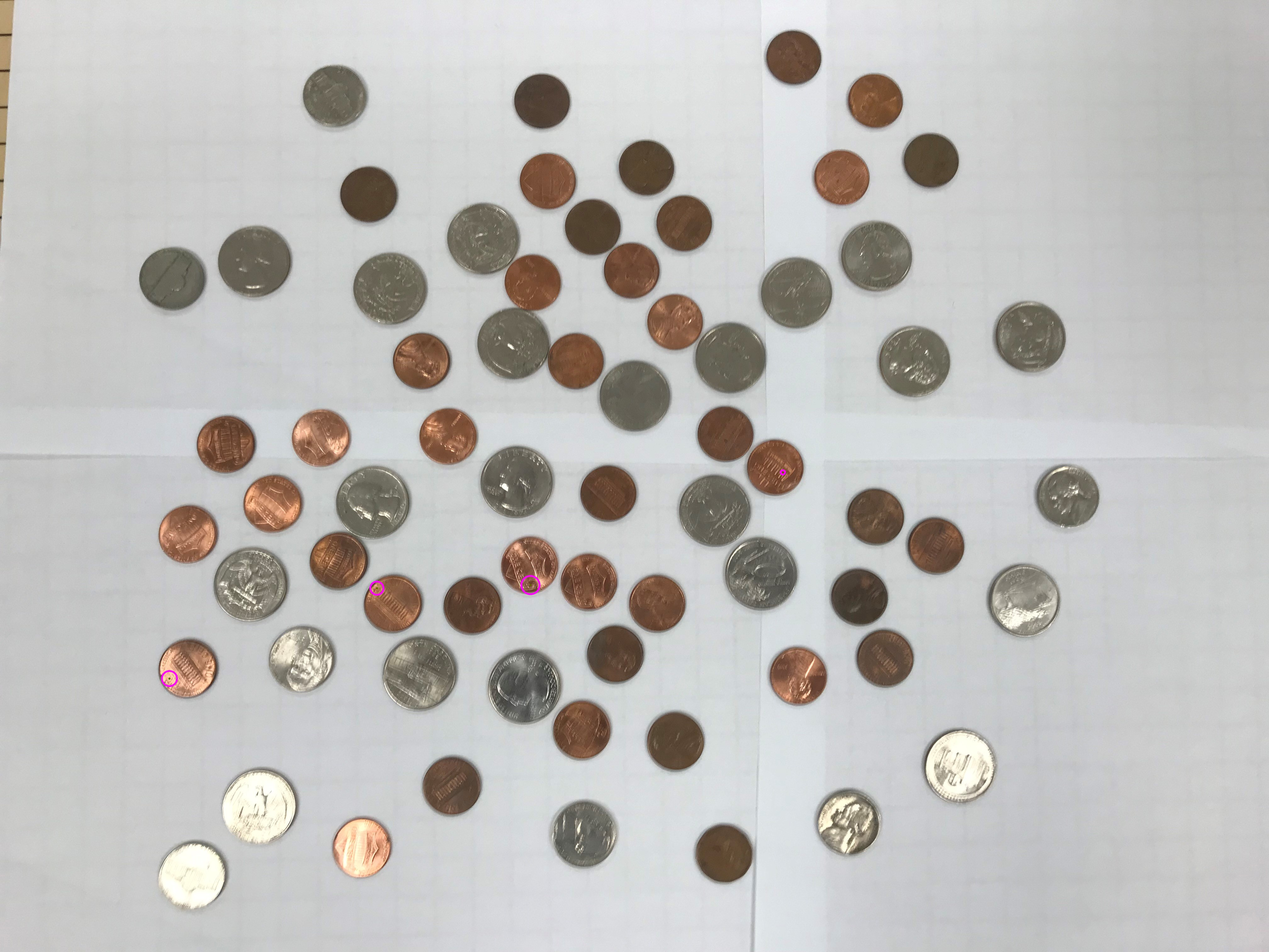
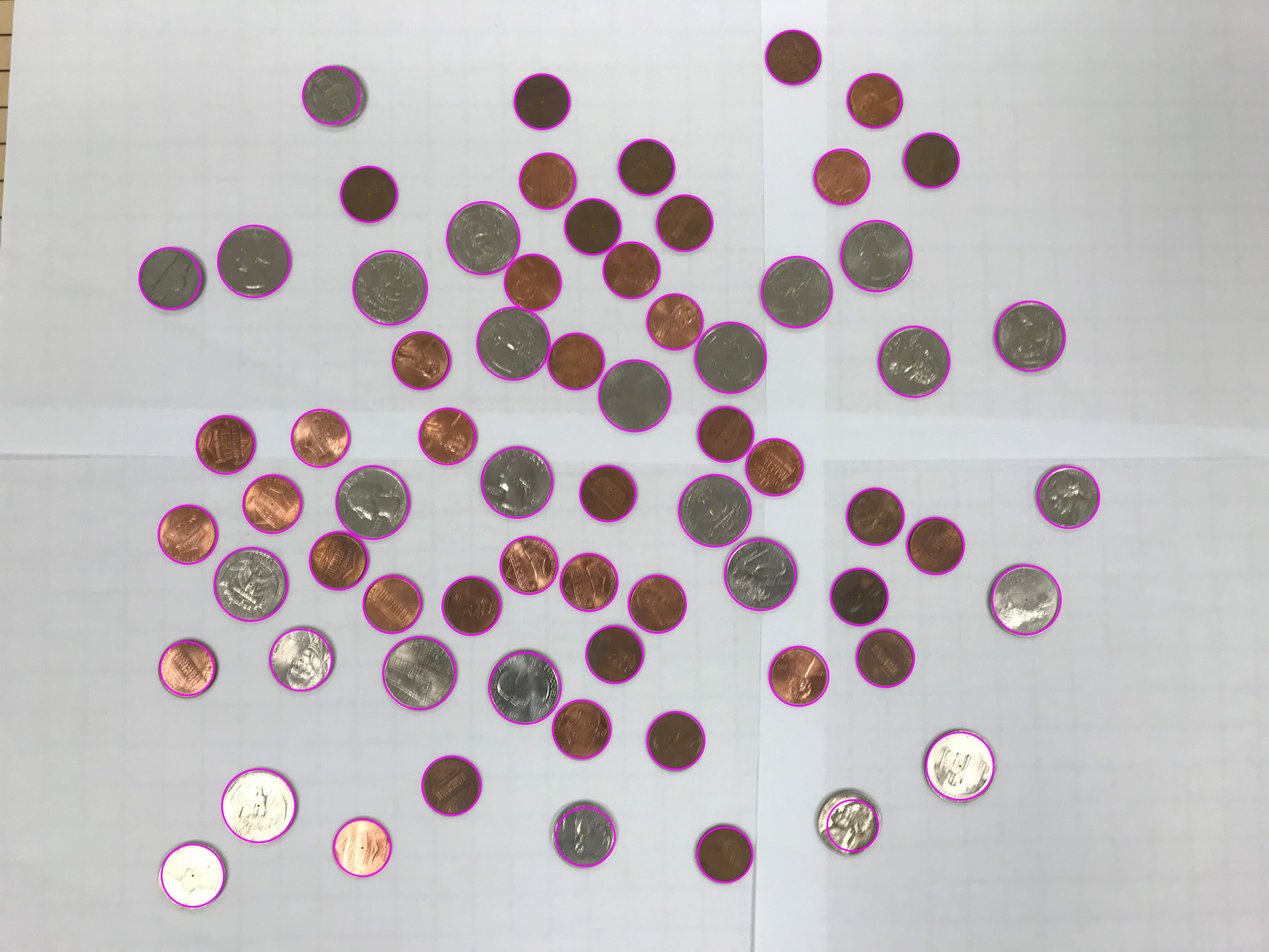
working thresholds for easy image

diff --git a/OpenCV/l071.cpp b/OpenCV/l071.cpp
@@ -6,7 +6,7 @@
 int main(int argc, char** argv) {
 	if (argc != 2) {
 		std::cout << "usage: l071 <path>\n";
-		std::cout << "path: the path of the image to run Hough Circles on\n";
+		std::cout << "path: the source image for detecting coins\n";
 		return -1;
 	}
 
@@ -21,27 +21,45 @@ int main(int argc, char** argv) {
 
 	cv::Mat gray;
 	cv::cvtColor(image, gray, cv::COLOR_BGR2GRAY);
-	
-	cv::medianBlur(gray, gray, 5);
 
-	const int MIN_RADIUS = 50;
-	const int MAX_RADIUS = 300;
+	const int GAUSSIAN_KERNEL_SIZE = 5;
+	
+	cv::GaussianBlur(
+		gray, // input
+		gray, // output
+		cv::Size(GAUSSIAN_KERNEL_SIZE, GAUSSIAN_KERNEL_SIZE), // kernel size
+		3, // sigma X
+		3, // sigma Y
+		cv::BORDER_DEFAULT // border style
+	);
+
+	const int MIN_RADIUS = 75;
+	const int MAX_RADIUS = 150;
 	const int MIN_DISTANCE = MIN_RADIUS;
 
-	const int EDGE_DETECTION_THRESHOLD = 100;
-	const int ACCUMULATOR_THRESHOLD = 30;
+	const int MAX_POSSIBLE_EDGE_GRADIENT = 1016;
 
-	const int DP = 1 / 1;
+	const int EDGE_DETECTION_THRESHOLD = MAX_POSSIBLE_EDGE_GRADIENT * 0.77 / GAUSSIAN_KERNEL_SIZE;
+	const int ACCUMULATOR_THRESHOLD = 40;
+
+	const double ACCUMULATOR_BLOCKINESS = 1.5;
 
   std::vector<cv::Vec3f> circles;
 
 	// cv: Detect circles in [gray] at least [MIN_DISTANCE] apart with a radius from [MIN_RADIUS] to [MAX_RADIUS] and output them to [circles]
+	
+	cv::Mat edges;
+	// cv: Detect edges in (gray) with thresholds (EDGE_DETECTION_THRESHOLD/2, EDGE_DETECTION_THRESHOLD)
+	// Replicate the same style of edge detection used by Hough Circles
+	cv::Canny(gray, edges, EDGE_DETECTION_THRESHOLD / 2, EDGE_DETECTION_THRESHOLD);
+
+	cv::imwrite("edges.jpg", edges);
 
 	cv::HoughCircles(
 		gray, // image
 		circles, // output
 		cv::HOUGH_GRADIENT, // method
-		DP, // dp
+		ACCUMULATOR_BLOCKINESS, // image resolution / accumulator resolution
 		MIN_DISTANCE,  // minimum distance
 		EDGE_DETECTION_THRESHOLD, // edge detection threshold
 		ACCUMULATOR_THRESHOLD,  // accumulator threshold
@@ -49,7 +67,7 @@ int main(int argc, char** argv) {
 		MAX_RADIUS  // maximum radius
 	);
 
-	for(const auto& circle : circles) {
+	for (const auto& circle : circles) {
 		int x = circle[0];
 		int y = circle[1];
 		int radius = circle[2];
